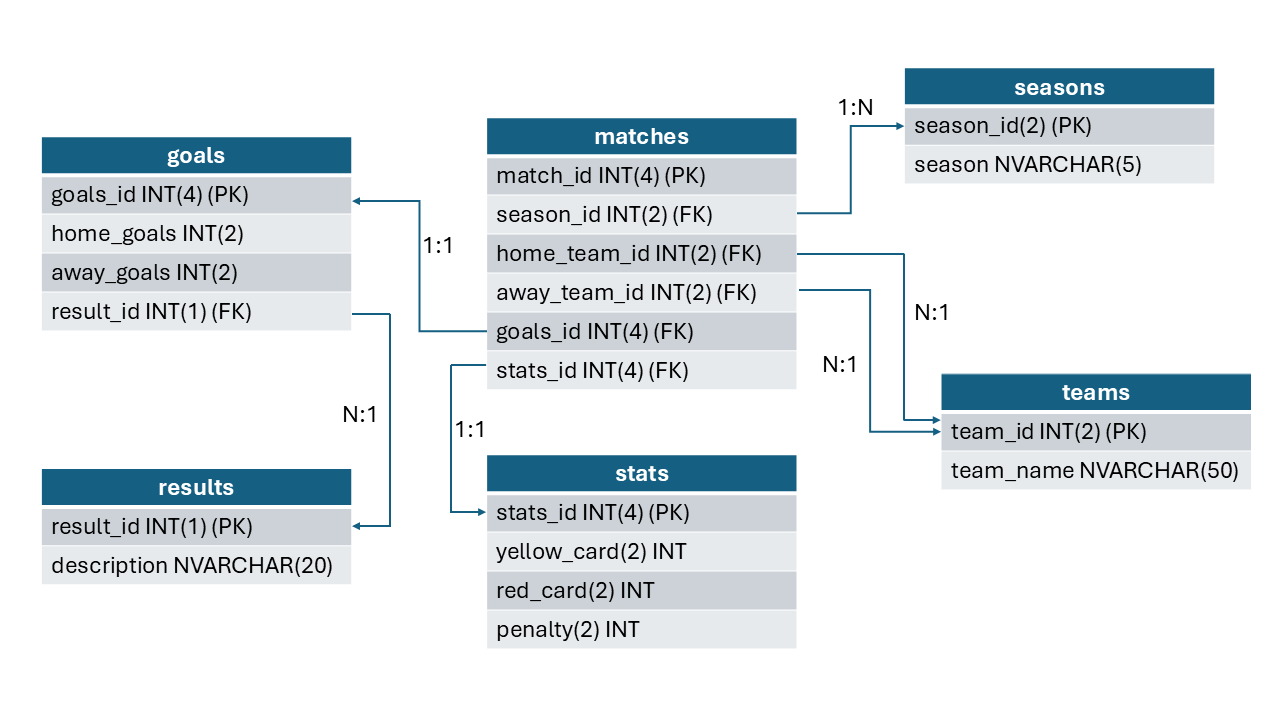
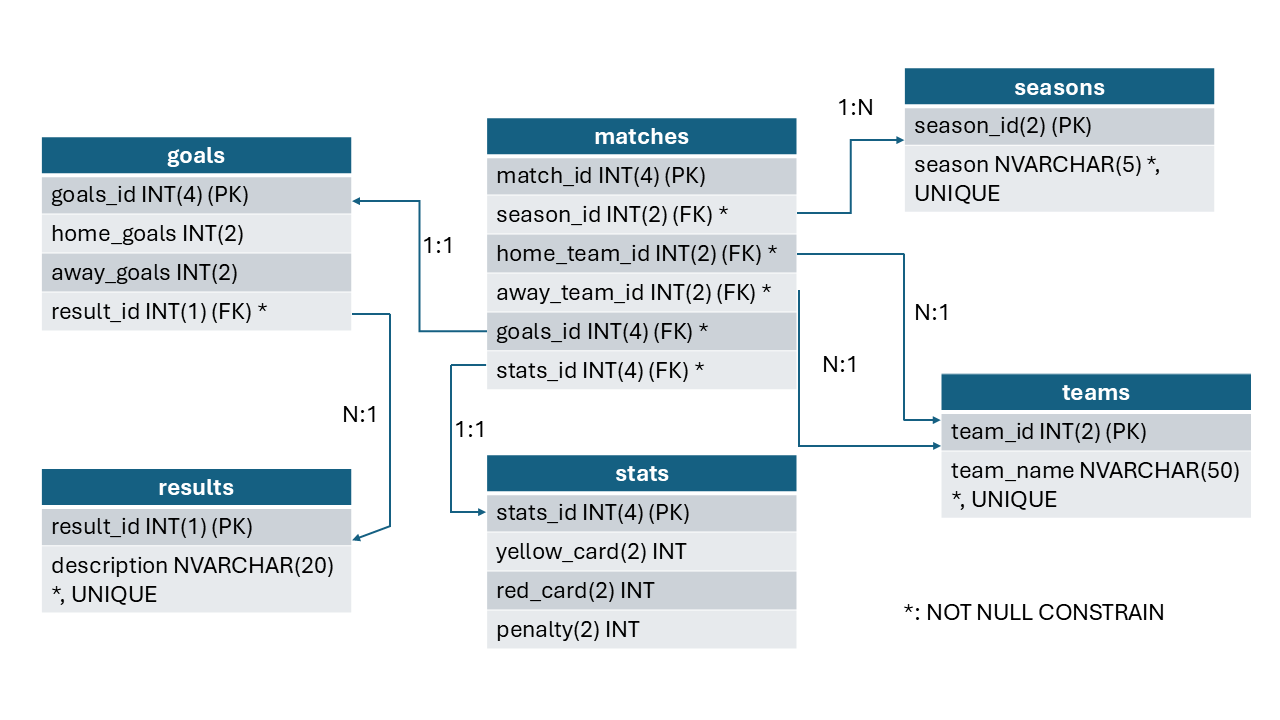
changes

diff --git a/README.md b/README.md
@@ -1,2 +1,26 @@
 # AdatB_beadando
 Beadandó feladat Adatbázisok tantárgyhoz
+Csoporttagok: Szente Bálint, Borsos Benedek, Palatin Simon
+
+Az adatbázist SQLite-ban terveztük meg, melyhez az adatokat a Kaggle-ről szereztük. Összesen 6 darab csv fájlból importáltuk a Premier League bajnokság bizonyos meccseinek adatait: A kisebb méret elérése képpen az eredeti adatokat csökkentettük, továbbá Generative AI-al néhány életszerű statisztikát adtunk az adatokhoz, a könnyebb lekérdezhetőség/elemezhetőség miatt. 
+
+Az adatbázis 'beadando.db' fájlként külön található a repositoryban.
+
+A 6 tábla az adatmodellekkel (fizikai, logikai) együtt az "Adatok" mappában foglalnak helyet. 
+
+Táblák:
+matches tábla -> tartalmazza a meccsek adatait egy generált primary key-el. Főként összekötő táblaként szolgál, a gyorsabb lekérdezésekért.
+
+stats tábla -> primary key-ére mutat a matches tábla egyik foreign key-e, itt adatok találhatóak a sárga/piros lapokról és a büntetőkről meccsenként.
+
+teams tábla -> primary key-ére mutat a matches tábla egyik foreign key-e, itt találhatóak a csapatnevek.
+
+season tábla -> primary key-ére mutat a matches tábla egyik foreign key-e, itt vannak az adott vizsgált szezonok (az adatrövidétés miatt nem szerepel az összes szezonból mérkőzés a matches táblában)
+
+goals tábla -> primary key-ére mutat a matches tábla egyik foreign key-e, itt meccsenként szerepelnek a haza is vendég gólok, továbbá egy foreign key mutat a results tábla PK-ére.
+
+results tábla -> primary key-ére mutat a goals tábla foreign key-e, itt bizonyos kimenetelek találhatóak a mérkőzésekhez hazai-vendég és döntetlen. 
+
+A lekérdezések értelemszerűen vannak elnevezve, az sql kiterjesztésű fájlok első sorában kommentelve vannak a funkciók. A lekérdezések külön mappában helyezkednek el: "Lekérdezések" mappa
+
+A tábla létrehozásáért felelős CRUD lekérdezések a megfelelő contrainekkel külön mappában vannak elhelyezve: "Táblák létrehozása" mappa
